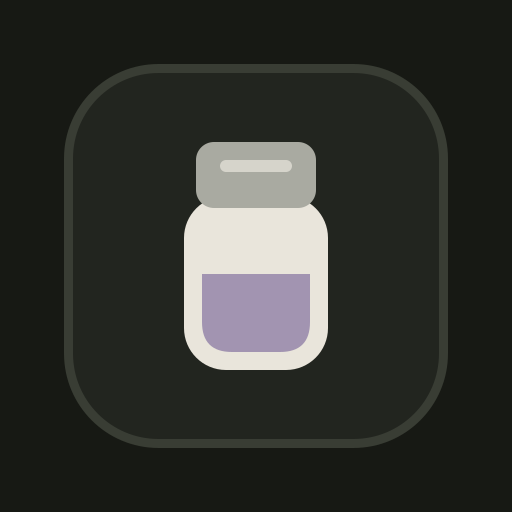
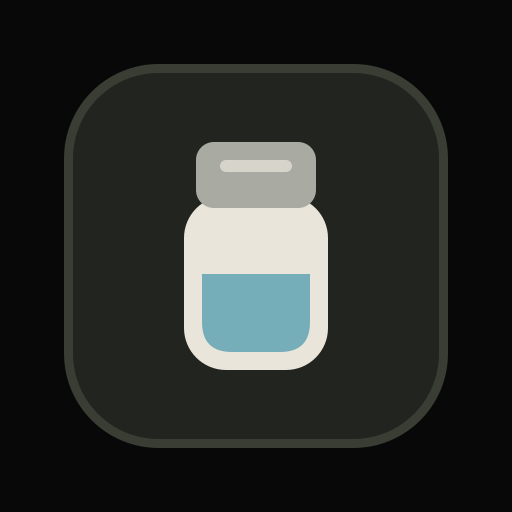
Simplify product buttons and unify neutral surfaces with a syringe-inspired VialTrack accent

Changed region(s): [[0.375, 0.5312, 0.625, 0.6875]]

diff --git a/navigation.css b/navigation.css
@@ -1,38 +1,34 @@
-html[data-theme="light"] {
---po-canvas: #F4F0E6;
---po-surface: #F8F5ED;
---po-inset: #EEE9DE;
---po-ink: #252821;
---po-muted: #62665E;
---po-line: #D8D3C8;
---po-accent: #A294B1;
+html[data-theme="light"] {--po-canvas: #FFFFFF;
+--po-surface: #FCFCFC;
+--po-inset: #F6F6F6;
+--po-ink: #202020;
+--po-muted: #626262;
+--po-line: #DEDEDE;
+--po-accent: #75AEB8;
 --po-on-accent: #252821;
---po-accent-hover: #9588A3;
+--po-accent-hover: #6CA0A9;
 --po-on-accent-hover: #252821;
---po-accent-text: #6E6578;
---po-accent-soft: #EEE9E6;
---po-on-accent-soft: #6E6578;
---po-accent-ring: #8D819A;
---po-accent-border: #8D819A;
-}
-html[data-theme="dark"] {
---po-canvas: #171914;
---po-surface: #22251F;
---po-inset: #2A2D27;
---po-ink: #E9E5DB;
---po-muted: #B7B8AC;
---po-line: #42463C;
---po-accent: #A294B1;
+--po-accent-text: #50767D;
+--po-accent-soft: #ECF3F4;
+--po-on-accent-soft: #4E747A;
+--po-accent-ring: #65969E;
+--po-accent-border: #65969E;}
+html[data-theme="dark"] {--po-canvas: #080808;
+--po-surface: #101010;
+--po-inset: #171717;
+--po-ink: #EEEEEE;
+--po-muted: #B6B6B6;
+--po-line: #2C2C2C;
+--po-accent: #75AEB8;
 --po-on-accent: #252821;
---po-accent-hover: #A99DB7;
+--po-accent-hover: #80B4BE;
 --po-on-accent-hover: #252821;
---po-accent-text: #A294B1;
---po-accent-soft: #363736;
---po-on-accent-soft: #A89AB6;
---po-accent-ring: #A294B1;
---po-accent-border: #A294B1;
-}
-/* Paper One lavender and shared DesignWelldone navigation, v14.4.0. */
+--po-accent-text: #75AEB8;
+--po-accent-soft: #20292B;
+--po-on-accent-soft: #75AEB8;
+--po-accent-ring: #75AEB8;
+--po-accent-border: #75AEB8;}
+/* Paper One syringe blue-green and shared DesignWelldone navigation, v14.4.0. */
 html[data-theme] { --bg:var(--po-canvas); --bg2:var(--po-canvas); --panel:var(--po-surface); --panel2:var(--po-inset); --panel3:var(--po-inset); --line:var(--po-line); --line2:var(--po-line); --border:var(--po-line); --text:var(--po-ink); --muted:var(--po-muted); --muted2:var(--po-muted); --aqua:var(--po-accent); --cyan:var(--po-accent); --blue:var(--po-accent); --blue2:var(--po-accent); --teal:var(--po-accent); }
 html[data-theme] body { background:var(--po-canvas)!important; color:var(--po-ink); padding-bottom:env(safe-area-inset-bottom); }
 html[data-theme] .container { padding:0 20px 28px; gap:20px; }
@@ -111,7 +107,6 @@ html[data-theme] body,html[data-theme] :is(button,input,select,textarea) {font-f
 .vialIdentityIcon {--paper-light:url("./icons/paper-one/vial-light.svg");--paper-dark:url("./icons/paper-one/vial-dark.svg");width:28px;height:28px}
 .vialWordmark {display:flex;align-items:center;gap:8px;font-weight:700}
 .homePrimaryBtn {display:flex;align-items:center;justify-content:center;gap:8px}
-.homePrimaryBtn .vialIdentityIcon {width:24px;height:24px}
 html[data-theme] :is(.trackerSummaryCard,.trackerComposer,.trackerNotesCard,.todayHero,.weightHeroCard,.weightTrendCard,.boardCard,.todayStatCard,.stockStat,.vialStat,.dayLogCard,.logCard,.protocolCard,.inventoryHeader,.trackerHeader,.historyHeader,.boardVialRow,.boardStockRow) {background:var(--po-surface)!important;color:var(--po-ink)!important;border-color:var(--po-line)!important;box-shadow:none}
 html[data-theme] :is(.dateNavBtn,.todayBtn,.viewToggle,.viewToggle button,.filterBtn) {background:var(--po-inset)!important;color:var(--po-ink)!important;border-color:var(--po-line)!important}
 html[data-theme] :is(.trackerSummaryCard,.todayStatCard,.stockStat,.vialStat) strong {color:var(--po-ink)!important}
@@ -126,3 +121,19 @@ html[data-theme] :is(.specs,.verify,.tips,.detail,.results,.roadmapCard,.dashCar
 html[data-theme] :is(.vialRemainingBlock,.drawbox,.bigresult,.recommend,.reference) {background:var(--po-inset)!important;color:var(--po-ink)!important;border-color:var(--po-line)!important}
 html[data-theme] :is(.historyActionBtn.primary,.quickAction.primary,.stockActionBtn.primary) {background:var(--po-accent)!important;color:var(--po-on-accent)!important;border-color:var(--po-accent-border)!important;box-shadow:none}
 html[data-theme] :is(.saveBtn:not(.secondarySave),.historyActionBtn.primary,.quickAction.primary,.stockActionBtn.primary):hover {background:var(--po-accent-hover)!important;color:var(--po-on-accent-hover)!important}
+
+html[data-theme] .homeBoardButton {display:inline-flex;align-items:center;justify-content:center;gap:0;padding:10px 14px}
+
+/* Equivalent panels use one surface; only actual controls receive state fills. */
+html[data-theme] :is(.drawbox,.bigresult,.recommend,.warning,.reference,.vialRemainingBlock,.sidebar) {background:var(--po-surface)!important;border-color:var(--po-line)!important;color:var(--po-ink)!important;box-shadow:none}
+html[data-theme] .refrow {background:transparent!important;border-radius:0;border-bottom:1px solid var(--po-line)}
+html[data-theme] :is(.syringe-choice,.unitBtn) {background:var(--po-surface)!important;color:var(--po-ink)!important;border-color:var(--po-line)!important;box-shadow:none}
+html[data-theme] :is(.syringe-choice.active,.unitBtn.active) {background:var(--po-accent-soft)!important;color:var(--po-on-accent-soft)!important;border-color:var(--po-accent-border)!important}
+html[data-theme] .syringe-choice :is(strong,span) {color:inherit!important}
+html[data-theme] :is(.drawlabel,.drawval,.bigresult .rval,.bigresult .rlabel,.bigresult .runit,.refrow span:nth-child(2)) {color:var(--po-accent-text)!important;text-shadow:none}
+html[data-theme] :is(.metric .mval,.refrow span:first-child,.refrow span:last-child) {color:var(--po-ink)!important}
+html[data-theme] :is(.hint,.mlabel,.munit,.rsub,.syringe-label,.label) {color:var(--po-muted)!important}
+html[data-theme="dark"] .warning :is(strong,p) {color:#E4BB62!important}
+html[data-theme="light"] .warning :is(strong,p) {color:#805B00!important}
+/* Theme changes should not leave isolated dark fills fading over a light page. */
+html[data-theme] :is(.inputcard,.syringe-choice,.unitBtn) {transition:none}

diff --git a/index.html b/index.html
@@ -4,17 +4,17 @@
 <meta charset="UTF-8">
 <meta name="viewport" content="width=device-width, initial-scale=1.0, viewport-fit=cover">
 
-<meta id="themeColorMeta" name="theme-color" content="#101113">
+<meta id="themeColorMeta" name="theme-color" content="#080808">
 <meta name="mobile-web-app-capable" content="yes">
 <meta name="apple-mobile-web-app-capable" content="yes">
 <meta name="apple-mobile-web-app-status-bar-style" content="black-translucent">
 <meta name="apple-mobile-web-app-title" content="VialTrack">
 <link rel="manifest" href="./manifest.json">
-<link rel="icon" type="image/svg+xml" href="./favicon.svg?v=paper-one-2">
+<link rel="icon" type="image/svg+xml" href="./favicon.svg?v=paper-one-3">
 <link rel="apple-touch-icon" href="./icons/paper-one/vial-180.png">
 
 <title>VialTrack</title>
-<meta name="vialtrack-version" content="14.4.2">
+<meta name="vialtrack-version" content="14.4.3">
 <meta name="description" content="Offline vial calculations, user-created protocols, inventory, history, and weight tracking.">
 <script>
 (function(){
@@ -2665,7 +2665,7 @@ html[data-theme="light"] textarea::placeholder{
   opacity:1;
 }
 
-/* V14.4.2 Track screen light-theme contrast */
+/* V14.4.3 Track screen light-theme contrast */
 html[data-theme="light"] .heroEyebrow,
 html[data-theme="light"] .screenEyebrow,
 html[data-theme="light"] .weekDow,
@@ -2934,7 +2934,7 @@ html[data-theme="light"] optgroup {
 }
 
 </style>
-<link rel="stylesheet" href="./navigation.css?v=14.4.2">
+<link rel="stylesheet" href="./navigation.css?v=14.4.3">
 </head>
 <body>
 <div class="container">
@@ -2993,8 +2993,8 @@ html[data-theme="light"] optgroup {
   
   
   <section id="homePanel" class="homePanel appView">
-    <div class="simpleHomeHead"><div><div id="homeTodayDate" class="todayDate"></div><h2>Today</h2></div><button class="homeBoardButton" type="button" onclick="showView('board')" aria-label="Open VialTrack status board"><span aria-hidden="true" class="paper-product-icon vialIdentityIcon"></span><span>Board</span></button></div>
-    <div class="homePrimaryActions"><button class="homePrimaryBtn" type="button" onclick="homeQuickLog()"><span aria-hidden="true" class="paper-product-icon vialIdentityIcon"></span>Log</button><button class="homePrimaryBtn secondary" type="button" onclick="showView('calculator')"><span aria-hidden="true" class="paper-product-icon vialIdentityIcon"></span>Reconstitute</button></div>
+    <div class="simpleHomeHead"><div><div id="homeTodayDate" class="todayDate"></div><h2>Today</h2></div><button class="homeBoardButton" type="button" onclick="showView('board')" aria-label="Open VialTrack status board"><span>Board</span></button></div>
+    <div class="homePrimaryActions"><button class="homePrimaryBtn" type="button" onclick="homeQuickLog()">Log</button><button class="homePrimaryBtn secondary" type="button" onclick="showView('calculator')">Reconstitute</button></div>
     <div class="homeCompactStats">
       <button onclick="showView('tracker')"><span>Today</span><strong id="homeTodayEntryCount">0</strong></button>
       <button onclick="showView('inventory')"><span>Active</span><strong id="homeActiveVialCount">0</strong></button>
@@ -3405,7 +3405,7 @@ html[data-theme="light"] optgroup {
     </div>
     <div class="moreGroup"><div class="moreGroupTitle">About</div>
       <button class="moreRow supportRow" type="button" disabled aria-disabled="true"><span class="moreRowIcon">$</span><span><strong>Support VialTrack</strong><small>Contributions are not available yet</small></span><span class="moreChevron">›</span></button>
-      <div class="moreStaticRow"><span><strong>VialTrack</strong><small>Version 14.4.2</small></span></div>
+      <div class="moreStaticRow"><span><strong>VialTrack</strong><small>Version 14.4.3</small></span></div>
       <div class="moreStaticRow"><span><strong>Data</strong><small>Stored on this device unless you export it</small></span></div>
     </div>
   </section>
@@ -3699,7 +3699,7 @@ function applyTheme(theme, persist){
   document.documentElement.dataset.theme = next;
   document.documentElement.style.colorScheme = next;
   const meta = q('themeColorMeta');
-  if(meta) meta.setAttribute('content', next === 'light' ? '#F4F0E6' : '#171914');
+  if(meta) meta.setAttribute('content', next === 'light' ? '#FFFFFF' : '#080808');
   syncThemeControls(next);
   if(persist){
     try { localStorage.setItem(VT_THEME_KEY, next); } catch(e) {}
@@ -4279,7 +4279,7 @@ async function exportHistory(){
   try{ protocols=await getAllProtocols(); protocolActions=await getAllProtocolActions(); }catch(e){}
   const payload = {
     app:'VialTrack',
-    version:'14.4.2',
+    version:'14.4.3',
     exportedAt:new Date().toISOString(),
     reconstitutions:records,
     stockInventory,
@@ -5880,7 +5880,7 @@ async function renderBoard(){
 
 
 <script>
-const VIAL_APP_VERSION = '14.4.2';
+const VIAL_APP_VERSION = '14.4.3';
 let vialTrackRegistration = null;
 let vialTrackWaitingWorker = null;
 let vialTrackUpdateDismissed = false;
@@ -6019,6 +6019,6 @@ async function eraseAllLocalData(){
   try{ if(vtDbPromise){ try{(await vtDbPromise).close()}catch(e){} } await new Promise((resolve,reject)=>{const r=indexedDB.deleteDatabase(VT_DB_NAME);r.onsuccess=resolve;r.onerror=()=>reject(r.error);r.onblocked=resolve;}); Object.keys(localStorage).filter(k=>k.toLowerCase().includes('vial')).forEach(k=>localStorage.removeItem(k)); location.reload(); }catch(e){alert('Could not erase local data. Close other VialTrack tabs and try again.')}
 }
 </script>
-<script src="./navigation.js?v=14.4.2"></script>
+<script src="./navigation.js?v=14.4.3"></script>
 </body>
 </html>

diff --git a/sw.js b/sw.js
@@ -1,11 +1,11 @@
-const CACHE_NAME = 'vialtrack-v14-4-2';
-const APP_VERSION = '14.4.2';
+const CACHE_NAME = 'vialtrack-v14-4-3';
+const APP_VERSION = '14.4.3';
 const APP_SHELL = [
   './',
   './index.html',
   './manifest.json',
-  './navigation.css?v=14.4.2',
-  './navigation.js?v=14.4.2',
+  './navigation.css?v=14.4.3',
+  './navigation.js?v=14.4.3',
   './version.json',
   './icons/paper-one/vial-light.svg',
   './icons/paper-one/vial-dark.svg',
@@ -13,7 +13,7 @@ const APP_SHELL = [
   './icons/paper-one/vial-512.png',
   './icons/paper-one/vial-180.png',
   './icons/paper-one/vial-maskable.png',
-  './favicon.svg?v=paper-one-2'
+  './favicon.svg?v=paper-one-3'
 ];
 
 self.addEventListener('install', event => {

diff --git a/docs/paper-one-identity-2026-10.md b/docs/paper-one-identity-2026-10.md
@@ -25,3 +25,9 @@ Blob spaces retain their current assignments: Memories/Live clay, Player/Files/S
 - Blob: existing 119 tests, TypeScript and production build pass. Authenticated media/playback and device acceptance remain a user-device check; no access bypass, service permission, database or controller changes.
 
 Scope is presentation and identity only. Product stages, account/access policies, local records, paid access, navigation destinations and media behavior do not change.
+
+## Surface/button refinement after user review
+
+Jeremy removed the product-mark requirement from buttons. Keep product marks in headings and discovery; action buttons retain visible labels, useful directional/utility glyphs and assigned accent colors. Dark canvas/card/inset: #080808 / #101010 / #171717. Light canvas/card/inset: #FFFFFF / #FCFCFC / #F6F6F6. Text, border and supporting accent roles derive against these backgrounds. This supersedes the button-icon and warm-neutral details above while retaining the product palette, fonts, large discovery marks and right-hand options rule. No auth/data/controller changes.
+
+VialTrack accent refinement: use syringe blue-green #75AEB8, inspired by the existing cyan liquid, in its icon and product-action roles. This supersedes VialTrack lavender only; other lavender products retain their assignments. Calculator/sidebar/result/reference panels use the same neutral surface, with no tinted reference rows; inputs and selected controls remain identifiable. The syringe drawing and arithmetic are unchanged.
